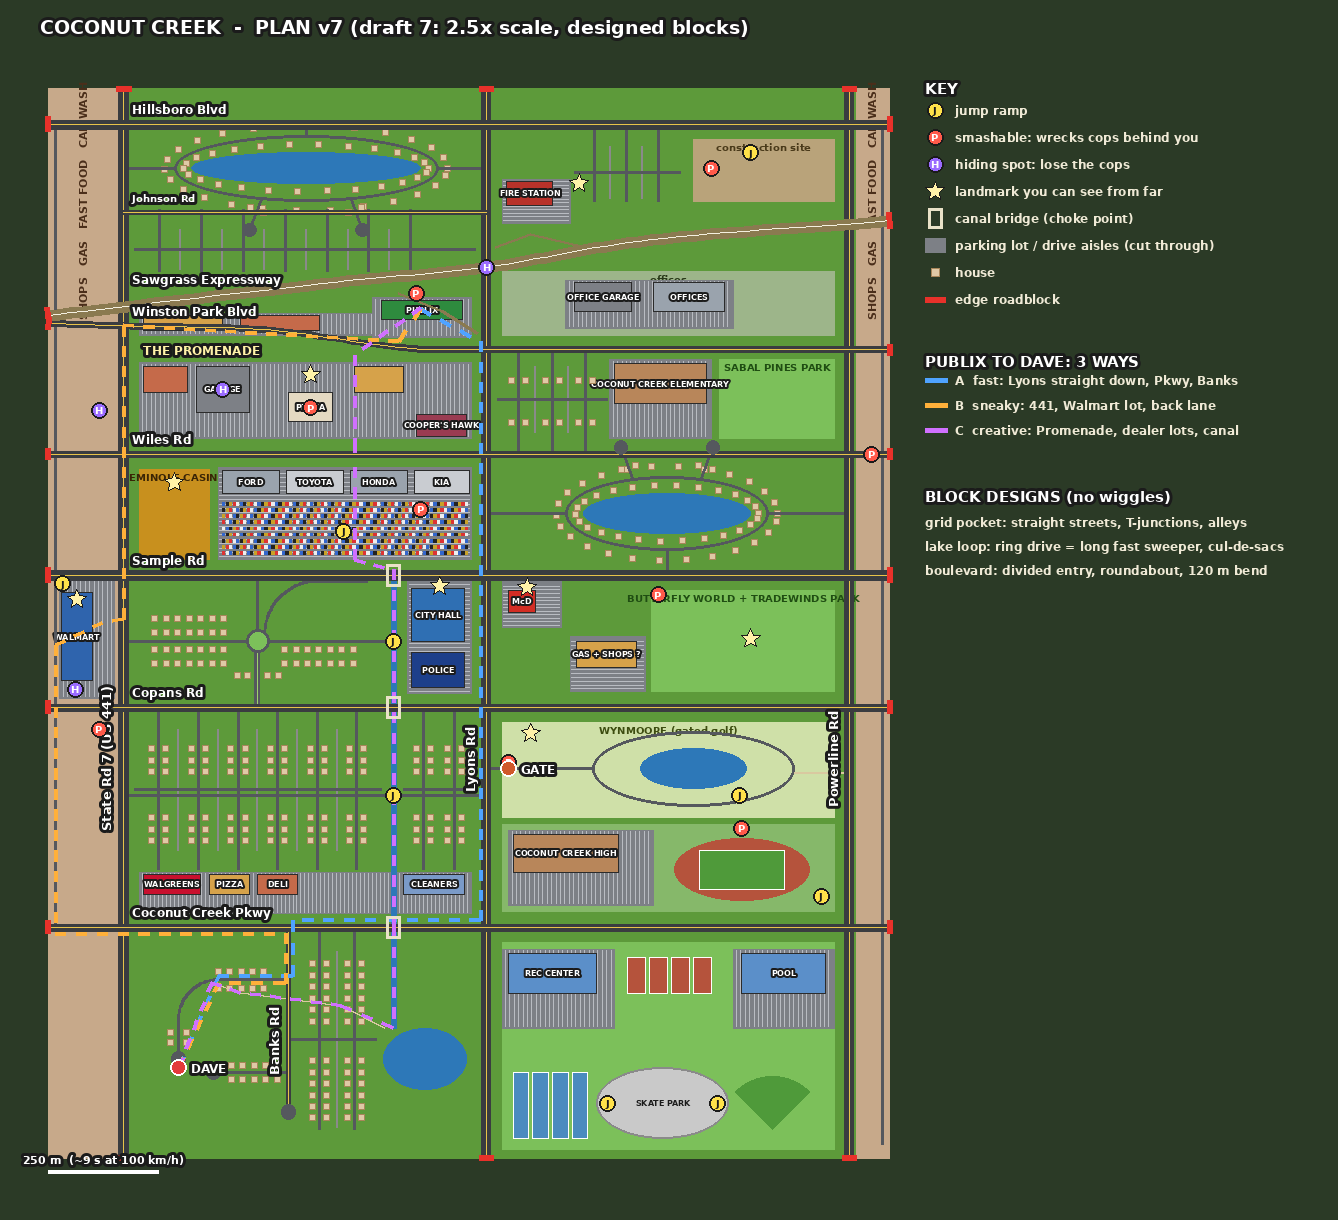
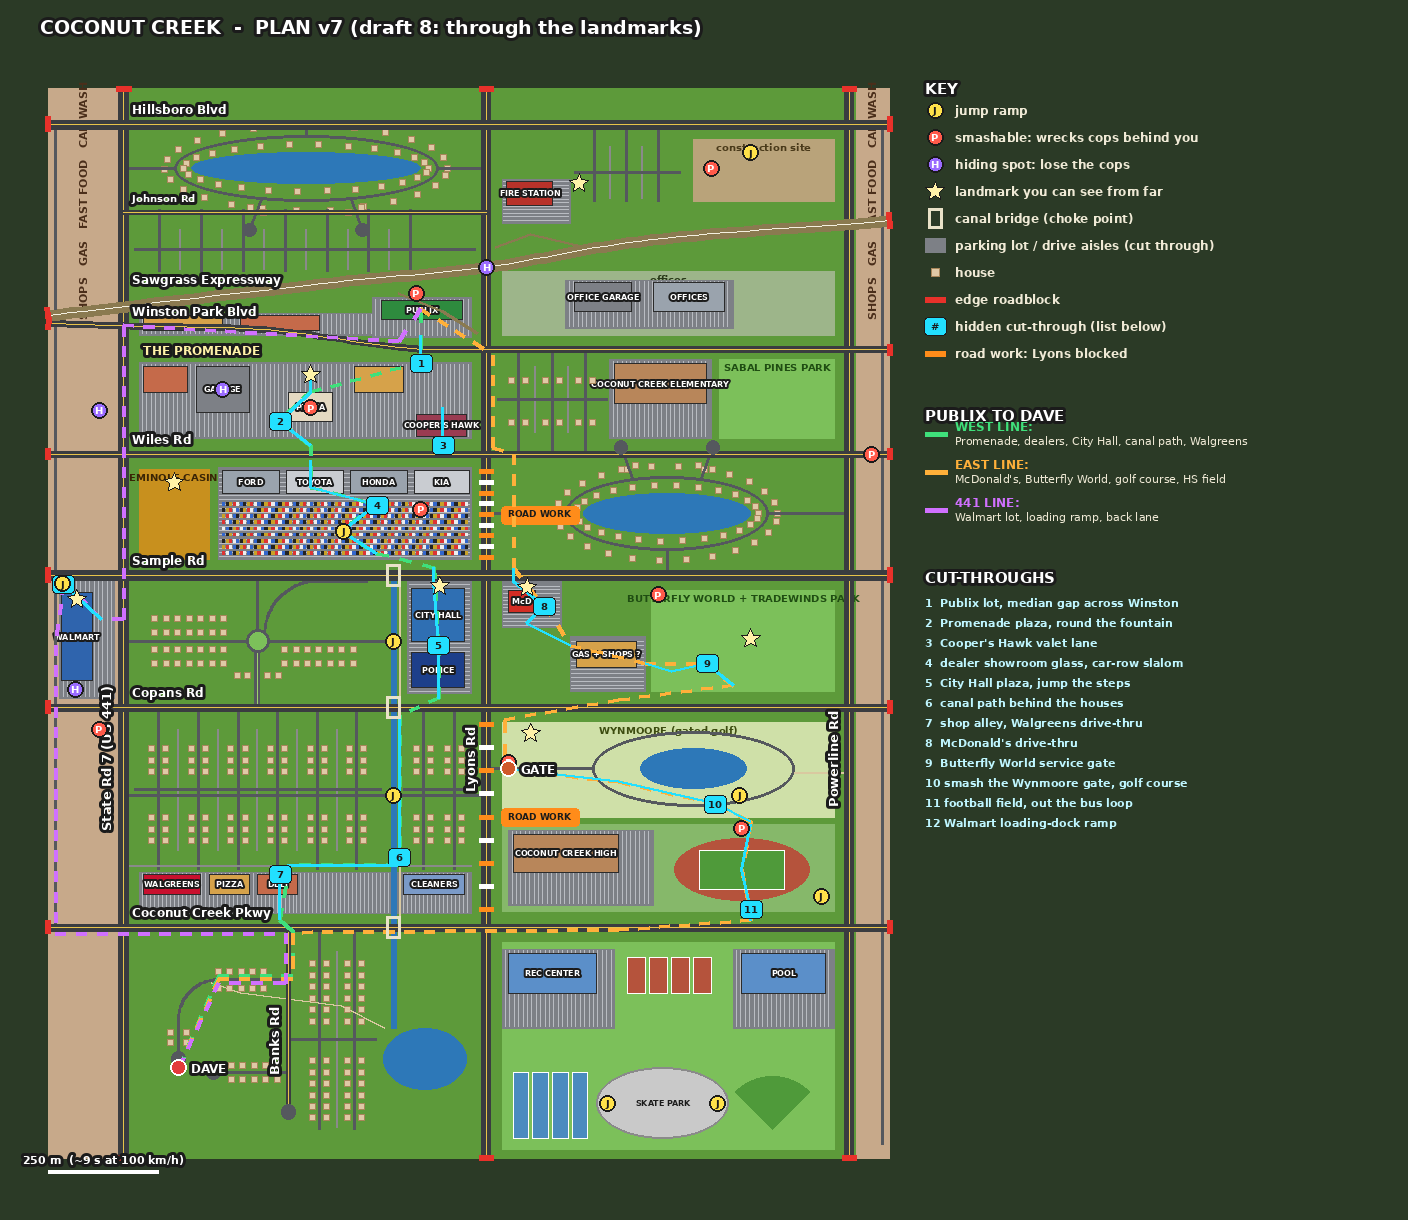
city-clone: plan v7 draft 8 (12 hidden cut-throughs through lots/plazas/drive-thrus/fields, road work on Lyons, routes through the landmarks)
Claude-Session: https://claude.ai/code/session_01QbDoFPGu5z24oXZd8dk3Jx

Changed region(s): [[0.0306, 0.0623, 0.9499, 0.9656], [0.0306, 0.0, 0.5822, 0.0311]]

diff --git a/city-clone/plan/v7/plan_v7.py b/city-clone/plan/v7/plan_v7.py
@@ -117,16 +117,39 @@ BREAKERS = [(XE - 40, 1075), (X441 - 55, 450), (-400, 1180), (-150, 950), (-160,
 HIDES = [(X441 - 55, 1175), (-600, 1222), (0, 1500), (XW + 60, 540)]
 STARS = [(-710, 1010), (600, 655), (-107, 775), (100, 440), (XW + 64, 745), (-400, 1255), (92, 772), (210, 1690)]
 BRIDGES = [(XCANAL, 0), (XCANAL, Y["copans"]), (XCANAL, Y["sample"])]
+# ---- draft 8 (user): the fun way is THROUGH the landmarks. Hidden cut-throughs link the lots, plazas, drive-thrus, fields and alleys across the
+# main roads, and road work blocks the straight runs, so the best line weaves through the city instead of going straight down Lyons.
+st([(XCANAL + 14, Y["sample"] - 14), (XCANAL + 14, 14)], 6, "trail")          # canal maintenance path (east bank), hidden behind the houses
+st([(X441 + 14, 140), (XCANAL - 10, 140)], 6, "alley"); st([(XCANAL + 10, 140), (-35, 140)], 6, "alley")   # service alley behind the Pkwy shops
+CUTS = [  # (label, polyline): each is a gap a driver can find (median gap, hedge gap, fence gate, drive-thru, plaza, loading ramp)
+    ("1", [(-150, 1345), (-150, 1282)]),                       # Publix lot -> across Winston (median gap) -> Promenade
+    ("2", [(-400, 1270), (-400, 1215), (-470, 1150), (-400, 1095)]),   # through the Promenade plaza, round the fountain, out to Wiles
+    ("3", [(-100, 1180), (-100, 1095)]),                       # Cooper's Hawk valet lane
+    ("4", [(-400, 1060), (-400, 1000), (-250, 960), (-330, 900), (-250, 850)]),   # dealer lots: through a showroom (glass), slalom the car rows, out to Sample
+    ("5", [(-120, 818), (-120, 785), (-110, 640), (-110, 520)]),     # median gap on Sample -> City Hall plaza -> steps down to Copans (jump)
+    ("6", [(XCANAL + 14, 480), (XCANAL + 14, 160)]),           # canal path
+    ("7", [(XCANAL + 10, 140), (-450, 140), (-470, 120), (-470, 18)]),   # service alley -> Walgreens drive-thru -> Pkwy, right at Banks
+    ("8", [(60, 815), (60, 785), (130, 730), (90, 690), (190, 640)]),     # McDonald's drive-thru -> gas station lot
+    ("9", [(360, 600), (420, 580), (500, 600), (560, 548)]),   # Butterfly World service gate -> Copans
+    ("10", [(40, 360), (300, 330), (520, 280), (600, 240)]),   # smash the Wynmoore gate, across the golf course, fence gap into the school
+    ("11", [(600, 232), (580, 130), (600, 40), (600, 14)]),    # across the football field, out the bus loop to the Pkwy
+    ("12", [(XW + 120, 700), (XW + 32, 780), (XW + 15, 760)]), # Walmart lot -> loading-dock ramp -> back lane (jump)
+]
+BLOCKS = [((0, 1075 - 40), (0, 800 + 40)), ((0, 500 - 40), (0, 0 + 40)), ((-330, 0), (-330, 0))]   # road work on Lyons (Wiles-Sample, Copans-Pkwy)
+BLOCKS = BLOCKS[:2]
 ROUTES = [
-    ("A  fast: Lyons straight down, Pkwy, Banks", "#4fa3ff", [PUBLIX, (-14, 1330), (-14, 14), (XBANKS + 8, 14), (XBANKS + 8, -112), (-610, -112), DAVE]),
-    ("B  sneaky: 441, Walmart lot, back lane", "#ffb03a", [PUBLIX, (-200, 1330), (X441, 1366), (X441, 700), (XW + 120, 690), (XW + 15, 640), (XW + 15, -14), (XBANKS - 8, -14), (XBANKS - 8, -128), (-610, -128), DAVE]),
-    ("C  creative: Promenade, dealer lots, canal", "#d070ff", [PUBLIX, (-300, 1300), (-300, 1110), (-300, 1045), (-300, 835), (XCANAL, 812), (XCANAL, 0), (XCANAL, -230), (-330, -180), (-560, -150), (-625, -128), DAVE]),
+    ("WEST LINE: Promenade, dealers, City Hall, canal path, Walgreens", "#3fe07b",
+     [PUBLIX, (-150, 1345), (-150, 1282), (-400, 1215), (-470, 1150), (-400, 1095), (-400, 1000), (-250, 960), (-330, 900), (-250, 850), (-120, 818), (-110, 640), (-110, 520), (XCANAL + 14, 480), (XCANAL + 14, 160), (XCANAL + 10, 140), (-450, 140), (-470, 18), (XBANKS + 8, -8), (XBANKS + 8, -112), (-610, -112), DAVE]),
+    ("EAST LINE: McDonald's, Butterfly World, golf course, HS field", "#ffb03a",
+     [PUBLIX, (-30, 1330), (14, 1300), (14, 1090), (60, 1075), (60, 815), (130, 730), (190, 640), (360, 600), (500, 600), (560, 548), (300, 515), (40, 470), (40, 360), (300, 330), (520, 280), (600, 240), (580, 130), (600, 14), (300, -8), (XBANKS + 8, -14), (XBANKS + 8, -120), (-610, -120), DAVE]),
+    ("441 LINE: Walmart lot, loading ramp, back lane", "#d070ff",
+     [PUBLIX, (-200, 1330), (X441, 1366), (X441, 700), (XW + 120, 700), (XW + 32, 780), (XW + 15, 640), (XW + 15, -14), (XBANKS - 8, -14), (XBANKS - 8, -128), (-610, -128), DAVE]),
 ]
 
 # ---- draw ----
 S = .44; PAD = 40
 X0, X1, Y0, Y1 = XW - 20, XE + 20, YS - 50, YN + 20
-W, H = int((X1 - X0) * S) + 2 * PAD + 400, int((Y1 - Y0) * S) + 2 * PAD + 40
+W, H = int((X1 - X0) * S) + 2 * PAD + 470, int((Y1 - Y0) * S) + 2 * PAD + 40
 P = lambda x, y: (PAD + (x - X0) * S, PAD + 40 + (Y1 - y) * S)
 def font(sz, b=True): return ImageFont.truetype("/usr/share/fonts/truetype/dejavu/DejaVuSans-Bold.ttf" if b else "/usr/share/fonts/truetype/dejavu/DejaVuSans.ttf", sz)
 im = Image.new("RGB", (W, H), "#2b3a26"); d = ImageDraw.Draw(im)
@@ -180,6 +203,10 @@ for name, pts, w, kind in ROADS:
         t = t.rotate(90, expand=True); cx, cy = P(pts[0][0], 380 if name != "Banks Rd" else -260); im.paste(t, (int(cx - t.width / 2 - w * S / 2 - 11), int(cy - t.height / 2)), t)
     else: OUT(name, P(X441 + 20, (pts[0][1] if "Winston" not in name and "Sawgrass" not in name else (1366 if "Winston" in name else 1440)) + 22), 12 if kind != "col" else 10, anchor="ls")
 d.text(P(-780, 1300), "THE PROMENADE", fill="#fff2a8", font=font(12), anchor="ls", stroke_width=3, stroke_fill="#1b1b1b")
+for (a, b) in BLOCKS:                                          # road work: striped closures across Lyons
+    for k in range(0, 9):
+        y = a[1] + (b[1] - a[1]) * k / 8; d.line([P(a[0] - 16, y), P(a[0] + 16, y)], fill="#ff8c1a" if k % 2 == 0 else "#ffffff", width=5)
+    m = P(a[0], (a[1] + b[1]) / 2); d.rounded_rectangle([m[0] + 14, m[1] - 9, m[0] + 92, m[1] + 9], 4, fill="#ff8c1a"); d.text((m[0] + 53, m[1]), "ROAD WORK", fill="#1b1b1b", font=font(9), anchor="mm")
 for (lab, col, pts) in ROUTES:
     q = [P(*p) for p in pts]
     for i in range(len(q) - 1):
@@ -188,6 +215,9 @@ for (lab, col, pts) in ROUTES:
 def badge(x, y, txt, fill, fg="#1b1b1b", r=8):
     cx, cy = P(x, y); d.ellipse([cx - r, cy - r, cx + r, cy + r], fill=fill, outline="#1b1b1b", width=2); d.text((cx, cy), txt, fill=fg, font=font(10), anchor="mm")
 def star(cx, cy, r=10): d.polygon([(cx + (r if k % 2 == 0 else r * .45) * math.sin(k * math.pi / 5), cy - (r if k % 2 == 0 else r * .45) * math.cos(k * math.pi / 5)) for k in range(10)], fill="#fff2a8", outline="#1b1b1b")
+for (lab, pts) in CUTS:
+    q = [P(*p) for p in pts]; d.line(q, fill="#22e0ff", width=3, joint="curve")
+    cx, cy = q[len(q) // 2]; d.rounded_rectangle([cx - 11, cy - 9, cx + 11, cy + 9], 4, fill="#22e0ff", outline="#1b1b1b"); d.text((cx, cy), lab, fill="#1b1b1b", font=font(10), anchor="mm")
 for x, y in BRIDGES: cx, cy = P(x, y); d.rectangle([cx - 7, cy - 11, cx + 7, cy + 11], outline="#e9e2c8", width=3)
 for x, y in JUMPS: badge(x, y, "J", "#ffe14a")
 for x, y in BREAKERS: badge(x, y, "P", "#ff5a4a", "white")
@@ -195,7 +225,7 @@ for x, y in HIDES: badge(x, y, "H", "#9a6bff", "white")
 for x, y in STARS: star(*P(x, y))
 for (lab, x, y, col, side) in SPOTS:
     cx, cy = P(x, y); d.ellipse([cx - 8, cy - 8, cx + 8, cy + 8], fill=col, outline="white", width=2); OUT(lab, (cx + 12 * side, cy), 12, anchor="lm" if side > 0 else "rm")
-OUT("COCONUT CREEK  -  PLAN v7 (draft 7: 2.5x scale, designed blocks)", (PAD, 16), 19)
+OUT("COCONUT CREEK  -  PLAN v7 (draft 8: through the landmarks)", (PAD, 16), 19)
 lx = int(P(XE, 0)[0]) + 36; ly = PAD + 70
 def leg(i, draw, text): y = ly + i * 27; draw(lx + 10, y); d.text((lx + 30, y), text, fill="#f0ead6", font=font(12), anchor="lm")
 OUT("KEY", (lx, ly - 30), 15)
@@ -206,11 +236,16 @@ leg(4, lambda x, y: d.rectangle([x - 7, y - 10, x + 7, y + 10], outline="#e9e2c8
 leg(5, lambda x, y: d.rectangle([x - 10, y - 7, x + 10, y + 7], fill="#7d8086"), "parking lot / drive aisles (cut through)")
 leg(6, lambda x, y: d.rectangle([x - 4, y - 4, x + 4, y + 4], fill="#e0c9a6", outline="#a8865a"), "house")
 leg(7, lambda x, y: d.line([(x - 10, y), (x + 10, y)], fill="#e8312a", width=6), "edge roadblock")
-OUT("PUBLIX TO DAVE: 3 WAYS", (lx, ly + 9 * 27), 15)
+leg(8, lambda x, y: (d.rounded_rectangle([x - 11, y - 9, x + 11, y + 9], 4, fill="#22e0ff", outline="#1b1b1b"), d.text((x, y), "#", fill="#1b1b1b", font=font(10), anchor="mm")), "hidden cut-through (list below)")
+leg(9, lambda x, y: d.line([(x - 10, y), (x + 10, y)], fill="#ff8c1a", width=6), "road work: Lyons blocked")
+OUT("PUBLIX TO DAVE", (lx, ly + 11 * 27), 15)
 for i, (lab, col, pts) in enumerate(ROUTES):
-    y = ly + 10 * 27 + i * 25; d.line([(lx, y), (lx + 22, y)], fill=col, width=5); d.text((lx + 30, y), lab, fill="#f0ead6", font=font(12), anchor="lm")
-OUT("BLOCK DESIGNS (no wiggles)", (lx, ly + 14 * 27), 15)
-for i, t in enumerate(["grid pocket: straight streets, T-junctions, alleys", "lake loop: ring drive = long fast sweeper, cul-de-sacs", "boulevard: divided entry, roundabout, 120 m bend"]):
-    d.text((lx, ly + 15 * 27 + i * 24), t, fill="#f0ead6", font=font(12))
+    y = ly + 12 * 27 + i * 38; d.line([(lx, y), (lx + 22, y)], fill=col, width=5)
+    for k, part in enumerate([lab[:lab.index(':') + 1], lab[lab.index(':') + 2:]]): d.text((lx + 30, y - 8 + k * 15), part, fill="#f0ead6" if k else col, font=font(11 if k else 12, k == 0), anchor="lm")
+OUT("CUT-THROUGHS", (lx, ly + 17 * 27), 15)
+CT_TXT = ["1  Publix lot, median gap across Winston", "2  Promenade plaza, round the fountain", "3  Cooper's Hawk valet lane", "4  dealer showroom glass, car-row slalom",
+          "5  City Hall plaza, jump the steps", "6  canal path behind the houses", "7  shop alley, Walgreens drive-thru", "8  McDonald's drive-thru", "9  Butterfly World service gate",
+          "10 smash the Wynmoore gate, golf course", "11 football field, out the bus loop", "12 Walmart loading-dock ramp"]
+for i, t in enumerate(CT_TXT): d.text((lx, ly + 18 * 27 + i * 20), t, fill="#bff6ff", font=font(11))
 sx, sy = P(XW, YS - 30); d.line([(sx, sy), (sx + 250 * S, sy)], fill="white", width=4); OUT("250 m  (~9 s at 100 km/h)", (sx + 125 * S, sy - 11), 11, anchor="mm")
 im.save(os.path.join(os.path.dirname(os.path.abspath(__file__)), "plan_v7.png")); print(W, H, len(HOUSES), "houses")
